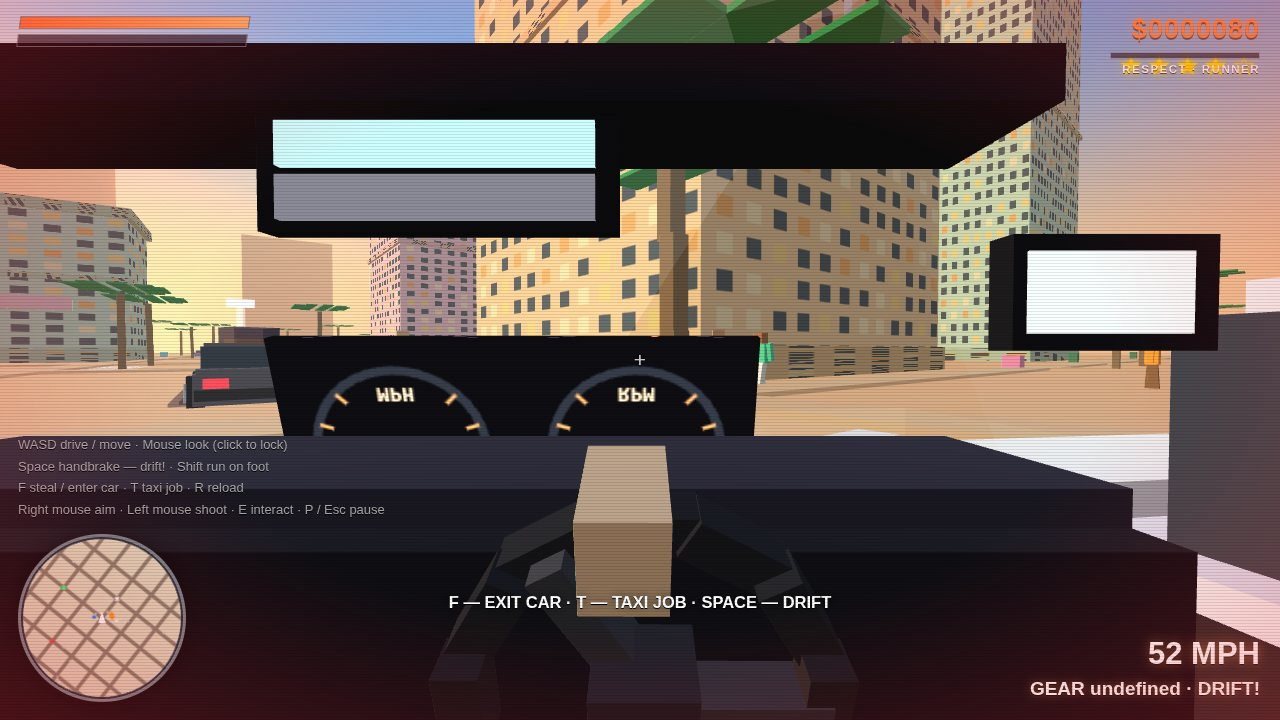
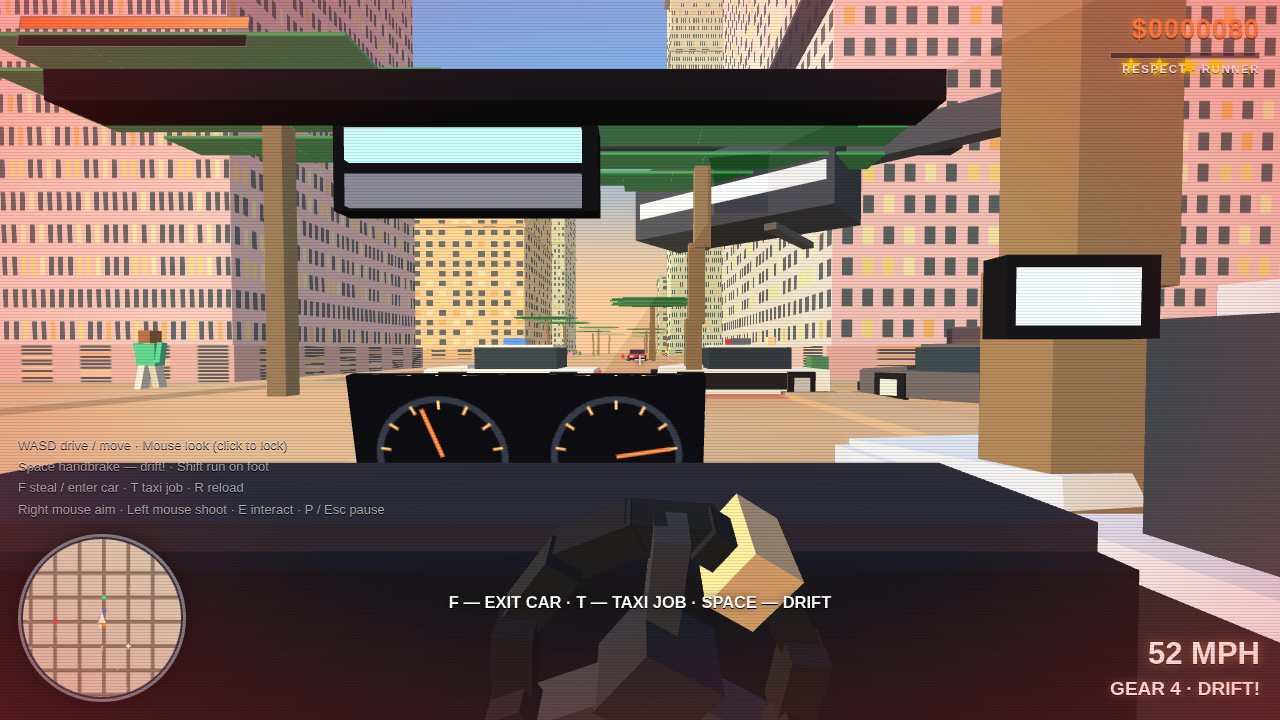
Fix the three screenshot defects reported from b562623 plus staging bugs found by eye: (1) play scene could render 180-degree flipped - setupShot wrote 84 (degrees) into the radian fovPunch, whose decay path crosses tan(fov/2)<0 bands; now 78deg in radians and cockpit() clamps fov to [0.9,2.2]. (2) 

diff --git a/game/src/main.js b/game/src/main.js
@@ -229,16 +229,16 @@ function drawInterior(s, car) {
   const fx = Math.sin(car.ry), fz = Math.cos(car.ry);
   const rx = Math.cos(car.ry), rz = -Math.sin(car.ry);
   const at = (f, r, y) => [car.x + fx * f + rx * r, y, car.z + fz * f + rz * r];
-  let q = at(1.02, 0, 0.80);
-  R.box(q[0], q[1], q[2], car.ry, 2.05, 0.34, 0.5, [0.09, 0.09, 0.12]);
-  q = at(1.06, 0, 0.99);
-  R.box(q[0], q[1], q[2], car.ry, 2.05, 0.07, 0.42, [0.16, 0.15, 0.2]);
+  let q = at(1.02, 0, 0.78);
+  R.box(q[0], q[1], q[2], car.ry, 2.05, 0.26, 0.42, [0.09, 0.09, 0.12]);
+  q = at(1.06, 0, 0.93);
+  R.box(q[0], q[1], q[2], car.ry, 2.05, 0.05, 0.38, [0.16, 0.15, 0.2]);
   // live instrument cluster (canvas texture, needles track speed/rpm)
-  q = at(1.40, -0.05, 0.98);
-  R.panel(q[0], q[1], q[2], car.ry, 1.15, 0.55, 'dash', { pitch: -0.25 });
-  // steering wheel: slim ring (r=0.19) + three spokes, rotation = steer x 3.2
+  q = at(1.36, -0.05, 0.95);
+  R.panel(q[0], q[1], q[2], car.ry, 0.88, 0.42, 'dash', { pitch: -0.18 });
+  // steering wheel: slim ring (r=0.175) + three spokes, rotation = steer x 3.2
   const wheelRoll = -(car.phys ? car.phys.steerAngle : 0) * 3.2;
-  const wc = at(0.70, -0.35, 0.84);
+  const wc = at(0.74, -0.35, 0.82);
   const wob = (dx, dy) => {
     const cr = Math.cos(wheelRoll), sr = Math.sin(wheelRoll);
     const lx = dx * cr - dy * sr, ly = dx * sr + dy * cr;
@@ -249,7 +249,7 @@ function drawInterior(s, car) {
   // ring: 12 short segments approximating a circle
   for (let i = 0; i < 12; i++) {
     const a = i / 12 * Math.PI * 2;
-    b = wob(Math.cos(a) * 0.19, Math.sin(a) * 0.19);
+    b = wob(Math.cos(a) * 0.175, Math.sin(a) * 0.175);
     R.box(b[0], b[1], b[2], car.ry, 0.115, 0.048, 0.05, rimC, { pitch: -0.32, roll: wheelRoll + a + Math.PI / 2 });
   }
   // three spokes: down, lower-left, lower-right (classic 3-spoke layout)
@@ -259,13 +259,13 @@ function drawInterior(s, car) {
   }
   b = wob(0, 0); R.box(b[0], b[1], b[2], car.ry, 0.11, 0.11, 0.09, [0.16, 0.16, 0.19], { pitch: -0.32, roll: wheelRoll });
   // driver hands gripping the rim at 9 and 3
-  b = wob(-0.19, 0.02); R.box(b[0], b[1], b[2], car.ry, 0.11, 0.09, 0.14, [0.92, 0.76, 0.6], { pitch: -0.32, roll: wheelRoll });
-  b = wob(0.19, 0.02); R.box(b[0], b[1], b[2], car.ry, 0.11, 0.09, 0.14, [0.92, 0.76, 0.6], { pitch: -0.32, roll: wheelRoll });
+  b = wob(-0.175, -0.01); R.box(b[0], b[1], b[2], car.ry, 0.09, 0.07, 0.11, [0.85, 0.68, 0.52], { pitch: -0.32, roll: wheelRoll });
+  b = wob(0.175, -0.01); R.box(b[0], b[1], b[2], car.ry, 0.09, 0.07, 0.11, [0.85, 0.68, 0.52], { pitch: -0.32, roll: wheelRoll });
   for (const sd of [-1, 1]) {
-    q = at(0.92, sd * 1.04, 1.3);
-    R.box(q[0], q[1], q[2], car.ry, 0.3, 0.17, 0.05, [0.08, 0.08, 0.1]);
-    q = at(0.9, sd * 1.03, 1.3);
-    R.box(q[0], q[1], q[2], car.ry, 0.24, 0.12, 0.02, [0.75, 0.85, 0.95], { emissive: true });
+    q = at(0.92, sd * 1.02, 1.3);
+    R.box(q[0], q[1], q[2], car.ry, 0.24, 0.13, 0.05, [0.08, 0.08, 0.1]);
+    q = at(0.9, sd * 1.01, 1.3);
+    R.box(q[0], q[1], q[2], car.ry, 0.19, 0.09, 0.02, [0.75, 0.85, 0.95], { emissive: true });
   }
   // centre console + gear knob between the seats
   q = at(0.35, 0.18, 0.42);
@@ -273,26 +273,26 @@ function drawInterior(s, car) {
   q = at(0.55, 0.18, 0.6);
   R.box(q[0], q[1], q[2], car.ry, 0.07, 0.16, 0.07, [0.2, 0.2, 0.24]);
   // rear-view mirror with a simple two-tone reflection (sky over road)
-  q = at(1.05, 0, 1.52);
-  R.box(q[0], q[1], q[2], car.ry, 0.62, 0.2, 0.05, [0.07, 0.07, 0.09]);
-  q = at(1.02, 0, 1.565);
-  R.box(q[0], q[1], q[2], car.ry, 0.54, 0.075, 0.02, [0.62, 0.78, 0.94], { emissive: true });
-  q = at(1.02, 0, 1.475);
-  R.box(q[0], q[1], q[2], car.ry, 0.54, 0.075, 0.02, [0.42, 0.42, 0.46], { emissive: true });
-  q = at(1.12, 0, 1.66);
-  R.box(q[0], q[1], q[2], car.ry, 2.05, 0.09, 0.3, [0.08, 0.08, 0.11]);
+  q = at(1.08, 0, 1.56);
+  R.box(q[0], q[1], q[2], car.ry, 0.5, 0.16, 0.05, [0.07, 0.07, 0.09]);
+  q = at(1.05, 0, 1.60);
+  R.box(q[0], q[1], q[2], car.ry, 0.44, 0.06, 0.02, [0.62, 0.78, 0.94], { emissive: true });
+  q = at(1.05, 0, 1.515);
+  R.box(q[0], q[1], q[2], car.ry, 0.44, 0.06, 0.02, [0.42, 0.42, 0.46], { emissive: true });
+  q = at(1.30, 0, 1.82);
+  R.box(q[0], q[1], q[2], car.ry, 2.05, 0.07, 0.12, [0.08, 0.08, 0.11]);
 }
 function drawGunView(s, eye, viewYaw, viewPitch, lowered = false) {
   const d = viewDir(viewYaw, viewPitch);
-  const rx = Math.cos(viewYaw), rz = -Math.sin(viewYaw);
+  const rx = -Math.cos(viewYaw), rz = Math.sin(viewYaw); // true screen-right for this view basis
   const aim = s.player.aim && !lowered;
   const kick = (s.recoil || 0) * 0.03;
-  const rOff = aim ? 0 : 0.23, dOff = (aim ? 0.42 : 0.5) - kick, yOff = lowered ? -0.5 : (aim ? -0.145 : -0.27) + kick * 0.6;
+  const rOff = aim ? 0 : 0.23, dOff = (aim ? 0.42 : 0.58) - kick, yOff = lowered ? -0.5 : (aim ? -0.145 : -0.30) + kick * 0.6;
   const gx = eye[0] + d[0] * dOff + rx * rOff, gy = eye[1] + d[1] * dOff + yOff, gz = eye[2] + d[2] * dOff + rz * rOff;
   R.box(gx, gy, gz, viewYaw, 0.09, 0.15, 0.46, [0.1, 0.1, 0.12], { pitch: viewPitch });
   R.box(gx + d[0] * 0.3, gy + d[1] * 0.3 + 0.02, gz + d[2] * 0.3, viewYaw, 0.05, 0.05, 0.26, [0.16, 0.16, 0.18], { pitch: viewPitch });
   R.box(gx - d[0] * 0.08 + rx * 0.02, gy - 0.13, gz - d[2] * 0.08 + rz * 0.02, viewYaw, 0.15, 0.11, 0.2, [0.92, 0.76, 0.6], { pitch: viewPitch });
-  if (!aim) R.box(gx - d[0] * 0.22 + rx * 0.1, gy - 0.3, gz - d[2] * 0.22 + rz * 0.1, viewYaw, 0.13, 0.13, 0.42, [0.97, 0.87, 0.72], { pitch: viewPitch + 0.5 });
+  if (!aim) R.box(gx - d[0] * 0.22 + rx * 0.1, gy - 0.3, gz - d[2] * 0.22 + rz * 0.1, viewYaw, 0.12, 0.12, 0.34, [0.97, 0.87, 0.72], { pitch: viewPitch + 0.5 });
 }
 function drawPerson(s, x, z, ry, color, o = {}) {
   // 7 parts: shadow, 2 legs (pants), torso (shirt), 2 arms (sleeves, swinging
@@ -320,17 +320,18 @@ function drawPerson(s, x, z, ry, color, o = {}) {
 function drawHeli(s, t) {
   const h = s.heli, p = s.player;
   const x = h.x, z = h.z, y = h.h || 28;
-  const ry = Math.atan2(p.x - x, p.z - z);
-  R.box(x, y, z, ry, 2.2, 1.9, 5.2, [0.92, 0.92, 0.95]);
-  R.box(x, y + 0.2, z, ry, 1.9, 1.0, 1.8, [0.15, 0.2, 0.3]);
+  const ry = h.ry != null ? h.ry : Math.atan2(p.x - x, p.z - z); // staged shots may pin a broadside aspect
+  R.box(x, y, z, ry, 2.6, 2.2, 6.4, [0.18, 0.2, 0.27]);
+  R.box(x, y - 0.2, z, ry, 2.65, 0.5, 6.0, [0.92, 0.92, 0.95]);
+  R.box(x, y + 0.25, z, ry, 2.2, 1.1, 2.0, [0.65, 0.8, 0.92], { emissive: true });
   const bx = Math.sin(ry), bz = Math.cos(ry);
-  R.box(x - bx * 4.6, y + 0.5, z - bz * 4.6, ry, 0.5, 0.7, 4.4, [0.85, 0.85, 0.88]);
-  R.box(x - bx * 6.7, y + 0.9, z - bz * 6.7, ry, 0.18, 1.5, 1.1, [0.85, 0.85, 0.88]);
+  R.box(x - bx * 5.4, y + 0.6, z - bz * 5.4, ry, 0.55, 0.8, 5.0, [0.22, 0.24, 0.31]);
+  R.box(x - bx * 7.8, y + 1.1, z - bz * 7.8, ry, 0.2, 1.7, 1.2, [0.22, 0.24, 0.31]);
   const spin = t * 42;
-  R.box(x, y + 1.25, z, spin, 11.5, 0.08, 0.5, [0.2, 0.2, 0.24]);
-  R.box(x, y + 1.25, z, spin + Math.PI / 2, 11.5, 0.08, 0.5, [0.2, 0.2, 0.24], { alpha: 0.7 });
-  R.box(x - bx * 6.7, y + 0.9, z - bz * 6.7, ry, 1.6, 0.12, 0.3, [0.2, 0.2, 0.24], { roll: t * 55 });
-  R.box(x - bx * 1.4, y - 1.25, z - bz * 1.4, ry, 2.6, 0.16, 0.3, [0.3, 0.3, 0.34]);
+  R.box(x, y + 1.5, z, spin, 13.5, 0.09, 0.55, [0.12, 0.12, 0.16]);
+  R.box(x, y + 1.5, z, spin + Math.PI / 2, 13.5, 0.09, 0.55, [0.12, 0.12, 0.16], { alpha: 0.7 });
+  R.box(x - bx * 7.8, y + 1.1, z - bz * 7.8, ry, 1.8, 0.13, 0.32, [0.15, 0.15, 0.19], { roll: t * 55 });
+  R.box(x - bx * 1.6, y - 1.45, z - bz * 1.6, ry, 3.0, 0.18, 0.34, [0.3, 0.3, 0.34]);
   // spotlight: beam from belly to the player + pool on the ground
   const dx = p.x - x, dz = p.z - z;
   const dist = Math.hypot(dx, dz, y);
@@ -497,7 +498,7 @@ function setupShot(kind) {
   const fx0 = setupShotScene(s, kind);
   const car = s.player.inCar;
   void car;
-  if (kind === 'play') rig.fovPunch = 84;
+  if (kind === 'play') rig.fovPunch = 78 * Math.PI / 180; // RADIANS (was 84 raw — tan() went negative mid-lerp and flipped frames)
   lookPitch = kind === 'start' ? -0.03 : 0.02;
   for (const sk of fx0.skids) skids.push(sk);
   for (const pf of fx0.puffs) spawnP(pf.x, pf.y, pf.z, pf.vx, pf.vy, pf.vz, pf.life, pf.size, pf.color);
@@ -515,9 +516,10 @@ function bootPhysics() {
     if (c === S.player.inCar) {
       c.phys = new PhysClass();
       c.phys.u = shotMode === 'play' ? 38.5 : shotMode === 'chase' ? 23.2 : 0;
-      c.phys.steerAngle = shotMode === 'play' ? 0.10 : shotMode === 'chase' ? 0.49 : 0;
+      c.phys.steerAngle = shotMode === 'play' ? 0.10 : shotMode === 'chase' ? 0.30 : 0;
       if (shotMode === 'chase') { c.phys.v = -15.7; c.phys.omega = 0.4; }
       c.speed = c.phys.u; c.rpm = shotMode === 'play' ? 0.92 : 0.8;
+      c.gear = shotMode === 'play' ? 5 : 4;
       c.slip = shotMode === 'chase' ? 14 : 0;
       c.isDrifting = shotMode === 'chase';
     }

diff --git a/game/src/game/shots.js b/game/src/game/shots.js
@@ -57,7 +57,11 @@ export function setupShotScene(s, kind) {
   }
   if (kind === 'chase') {
     const car = s.cars.find(c => c.kind === 'parked');
-    car.kind = 'player'; car.x = BLOCK * 0.5; car.z = BLOCK * 0.5; car.ry = 0.9;
+    // Snap onto a straight vertical road, facing +Z down its length, so the
+    // roadblock / heli / wreck staged ahead are actually in frame.
+    const centers = roadCenters();
+    const roadC = centers.reduce((a, b) => Math.abs(b - BLOCK * 0.5) < Math.abs(a - BLOCK * 0.5) ? b : a, centers[0]);
+    car.kind = 'player'; car.x = roadC - 3.6; car.z = -30; car.ry = 0;
     p.inCar = car; p.x = car.x; p.z = car.z;
     car.rpm = 0.8; s.wanted = 4; s.trauma = 0.45;
     const fx = Math.sin(car.ry), fz = Math.cos(car.ry), rx = Math.cos(car.ry), rz = -Math.sin(car.ry);
@@ -65,31 +69,64 @@ export function setupShotScene(s, kind) {
     s.cops.push(mkCop(car.x - rx * 2.6 + fx * 0.6, car.z - rz * 2.6 + fz * 0.6, car.ry + 0.15));
     s.cops.push(mkCop(car.x - fx * 14 + rx * 5, car.z - fz * 14 + rz * 5, car.ry));
     // 4-star roadblock: two cruisers side by side across the road ahead.
-    for (const sd of [-2.3, 2.3]) {
-      const rb = mkCop(car.x + fx * 19 + rx * sd, car.z + fz * 19 + rz * sd, car.ry + Math.PI / 2);
+    for (const sd of [-3.0, 3.0]) {
+      const rb = mkCop(car.x + fx * 13 + rx * sd, car.z + fz * 13 + rz * sd, car.ry + Math.PI / 2);
       rb.roadblock = true; rb.speed = 0;
       s.cops.push(rb);
     }
     // Air unit overhead, spotlight locked on the player car (staged for frame).
-    s.heli = { a: 0, h: 17, x: car.x + fx * 26 - rx * 10, z: car.z + fz * 26 - rz * 10 };
+    s.heli = { a: 0, h: 6, ry: car.ry + 0.9, x: car.x + fx * 15 - rx * 3.5, z: car.z + fz * 15 - rz * 3.5 };
     // A burning wreck by the roadside for the explosion chain money-shot.
-    const wreck = placeTrafficAt(s, 3, car.x + fx * 12 + rx * 9, car.z + fz * 12 + rz * 9, car.ry + 0.7, [0.3, 0.3, 0.34]);
+    const wreck = placeTrafficAt(s, 3, car.x + fx * 11 - rx * 8, car.z + fz * 11 - rz * 8, car.ry + 0.7, [0.3, 0.3, 0.34]);
     wreck.burning = 1.4; wreck.hp = 0;
     // Bystander traffic + fleeing peds at the intersection corners.
     placeTrafficAt(s, 0, car.x + fx * 26 - rx * 8, car.z + fz * 26 - rz * 8, car.ry + Math.PI / 2, [0.98, 0.78, 0.15]);
     placeTrafficAt(s, 1, car.x - fx * 10 + rx * 10, car.z - fz * 10 + rz * 10, car.ry, [0.4, 0.7, 0.4]);
-    const road = BLOCK * 0.5;
-    placePedAt(s, 0, road - 10, road - 12, false, road, -10);
-    placePedAt(s, 1, road + 10.5, road + 14, false, road, 10.5);
-    placePedAt(s, 2, road + 2, road + 22, true, road, 12);
-    placePedAt(s, 3, road + 16, road + 4, true, road, -13);
+    const road = roadC;
+    placePedAt(s, 0, road - 10, -42, false, road, -10);
+    placePedAt(s, 1, road + 10.5, -16, false, road, 10.5);
+    placePedAt(s, 2, road + 2, -8, true, road, 12);
+    placePedAt(s, 3, road + 16, -26, true, road, -13);
     for (let i = 0; i < 26; i++) out.puffs.push({ x: car.x - fx * 2 + rng.range(-1, 1), y: 0.5, z: car.z - fz * 2 + rng.range(-1, 1), vx: -fx * 2, vy: rng.range(1, 2), vz: -fz * 2, life: 1.6, size: 0.9, color: [0.85, 0.85, 0.88] });
     for (let i = 0; i < 10; i++) out.puffs.push({ x: car.x - rx * 2.2, y: 0.8, z: car.z - rz * 2.2, vx: -rx * 3, vy: 1.5, vz: -rz * 3, life: 0.5, size: 0.3, color: [1, 0.75, 0.25] });
     out.skids = [{ x: car.x - fx * 6, z: car.z - fz * 6, ry: car.ry, len: 9 }, { x: car.x - fx * 10, z: car.z - fz * 10, ry: car.ry + 0.2, len: 8 }];
   }
   if (kind === 'end') {
     const z = s.city.zones.spray;
-    p.x = z.x - 10; p.z = z.z + 12;
+    // Pick a vantage with a clear sightline to the spray: no palm near the
+    // camera or across the first 8 m of the view ray, no car on top of us.
+    const candidates = [[-10, 12], [-4, 14], [-14, 6], [-6, 8], [-12, 16], [-2, 10], [-16, 12]];
+    let placed = false;
+    for (const [ox, oz] of candidates) {
+      const px = z.x + ox, pz = z.z + oz;
+      const fx = Math.sin(Math.atan2(z.x - px, z.z - pz)), fz = Math.cos(Math.atan2(z.x - px, z.z - pz));
+      let clear = true;
+      for (const pm of s.city.palms) {
+        const d0 = Math.hypot(pm.x - px, pm.z - pz);
+        if (d0 < 2.5) { clear = false; break; }
+        for (let t = 1; t < 8; t += 1.5) {
+          if (Math.hypot(pm.x - (px + fx * t), pm.z - (pz + fz * t)) < 1.8) { clear = false; break; }
+        }
+        if (!clear) break;
+      }
+      if (clear) for (const c of s.cars) if (Math.hypot(c.x - px, c.z - pz) < 3) { clear = false; break; }
+      if (clear) {
+        // Buildings too: not standing inside one, none blocking the view ray.
+        const aabbD = (bx, bz, b) => {
+          const dx = Math.max(Math.abs(bx - b.x) - b.w / 2, 0);
+          const dz = Math.max(Math.abs(bz - b.z) - b.d / 2, 0);
+          return Math.hypot(dx, dz);
+        };
+        for (const b of s.city.buildings) {
+          if (aabbD(px, pz, b) < 2.5) { clear = false; break; }
+          let blocked = false;
+          for (let t = 1.5; t < 11; t += 1.5) if (aabbD(px + fx * t, pz + fz * t, b) < 1.2) { blocked = true; break; }
+          if (blocked) { clear = false; break; }
+        }
+      }
+      if (clear) { p.x = px; p.z = pz; placed = true; break; }
+    }
+    if (!placed) { p.x = z.x - 10; p.z = z.z + 12; }
     s.camYaw = Math.atan2(z.x - p.x, z.z - p.z); p.ry = s.camYaw;
     s.hasGun = true;
     const gold = s.cars.find(c => c.kind === 'parked');
@@ -104,7 +141,8 @@ export function setupShotScene(s, kind) {
     s.mission = { name: 'THE RIVAL DEAL', desc: 'REWARD: $20,000', target: null };
     s.cash = 21450; s.wanted = 0;
     out.skids = [{ x: z.x - 6, z: z.z + 2, ry: Math.PI / 2, len: 10 }, { x: z.x - 11, z: z.z + 2.6, ry: Math.PI / 2, len: 8 }];
-    for (let i = 0; i < 8; i++) out.puffs.push({ x: p.x + Math.sin(s.camYaw) * 0.6, y: 1.5 + i * 0.1, z: p.z + Math.cos(s.camYaw) * 0.6, vx: 0.2, vy: 0.7, vz: 0.1, life: 1.4, size: 0.22, color: [0.8, 0.8, 0.82] });
+    // Celebration smoke rises off the gold car, NOT in the camera's face.
+    for (let i = 0; i < 8; i++) out.puffs.push({ x: z.x + (i % 3 - 1) * 0.8, y: 1.2 + i * 0.35, z: z.z + (i % 2) * 1.2 - 0.6, vx: 0.2, vy: 0.7, vz: 0.1, life: 1.4, size: 0.3, color: [0.8, 0.8, 0.82] });
   }
   return out;
 }

diff --git a/game/src/gl/textures.js b/game/src/gl/textures.js
@@ -63,6 +63,7 @@ export function makeTextures(gl) {
     const c = document.createElement('canvas'); c.width = 256; c.height = 128;
     const g = c.getContext('2d');
     g.fillStyle = '#0a0a0e'; g.fillRect(0, 0, 256, 128);
+    g.save(); g.translate(0, 128); g.scale(1, -1); // texture V is flipped in upload (no FLIP_Y): pre-flip vertically
     const gauge = (cx, label) => {
       g.strokeStyle = '#2a2f3a'; g.lineWidth = 5;
       g.beginPath(); g.arc(cx, 64, 46, 0, Math.PI * 2); g.stroke();
@@ -77,7 +78,7 @@ export function makeTextures(gl) {
       g.fillStyle = '#ffe1b8'; g.font = 'bold 11px monospace'; g.textAlign = 'center';
       g.fillText(label, cx, 100);
     };
-    gauge(64, 'MPH'); gauge(192, 'RPM');
+    gauge(64, 'MPH'); gauge(192, 'RPM'); g.restore();
     out.dash = canvasTex(gl, c, false);
   }
   // Soft radial particle sprite.
@@ -100,6 +101,7 @@ export function drawDashTexture(gl, tex, mph, rpm) {
   })());
   const g = c.getContext('2d');
   g.fillStyle = '#0a0a0e'; g.fillRect(0, 0, 256, 128);
+  g.save(); g.translate(0, 128); g.scale(1, -1); // texture V is flipped in upload (no FLIP_Y): pre-flip vertically
   const gauge = (cx, label, frac) => {
     g.strokeStyle = '#2a2f3a'; g.lineWidth = 5;
     g.beginPath(); g.arc(cx, 64, 46, 0, Math.PI * 2); g.stroke();
@@ -117,7 +119,7 @@ export function drawDashTexture(gl, tex, mph, rpm) {
     g.fillStyle = '#ffe1b8'; g.font = 'bold 11px monospace'; g.textAlign = 'center';
     g.fillText(label, cx, 100);
   };
-  gauge(64, 'MPH', mph / 120); gauge(192, 'RPM', rpm);
+  gauge(64, 'MPH', mph / 120); gauge(192, 'RPM', rpm); g.restore();
   gl.bindTexture(gl.TEXTURE_2D, tex);
   gl.texImage2D(gl.TEXTURE_2D, 0, gl.RGBA, gl.RGBA, gl.UNSIGNED_BYTE, c);
 }

diff --git a/game/src/game/hud.js b/game/src/game/hud.js
@@ -57,7 +57,7 @@ export function updateHUD(s, ui, nearCarFn) {
   ui.stars.style.color = s.wanted ? '#FFD700' : '#2A2A38';
   ui.stars.style.textShadow = s.wanted ? '0 0 10px rgba(255,215,0,.9)' : 'none';
   const car = s.player.inCar;
-  ui.weapon.textContent = car ? `GEAR ${car.gear === 0 ? 'R' : car.gear} · ${car.isDrifting ? 'DRIFT!' : ''}${s.radio ? ` · RADIO ${s.radio === 1 ? 'VICE FM' : 'SOLMAR'}` : ''}`
+  ui.weapon.textContent = car ? `GEAR ${car.gear === 0 ? 'R' : (car.gear == null ? 'N' : car.gear)} · ${car.isDrifting ? 'DRIFT!' : ''}${s.radio ? ` · RADIO ${s.radio === 1 ? 'VICE FM' : 'SOLMAR'}` : ''}`
     : (s.hasGun ? (s.weapon === 'smg' && s.hasSmg ? `SMG ${s.ammoSmg} / ${s.reserve}` : `PISTOL ${s.ammo} / ${s.reserve}`) + (s.reloadT > 0 ? ' · RELOADING' : '') : 'UNARMED');
   if (ui.respectfill) {
     const r = s.respect || 0;

diff --git a/game/src/game/camera.js b/game/src/game/camera.js
@@ -37,6 +37,7 @@ export class CameraRig {
     const targetFov = 75 * Math.PI / 180 + clamp(aLong * 0.35, -5, 12) * Math.PI / 180;
     this.fovPunch += (targetFov - this.fovPunch) * Math.min(1, dt * 6);
     if (!this.fovPunch) this.fovPunch = targetFov;
+    this.fovPunch = clamp(this.fovPunch, 0.9, 2.2); // never let tan(fov/2) go negative
     const yaw = car.ry + lookYaw;
     const pitch = lookPitch + this.springP * 0.7;
     const d = viewDir(yaw, pitch);

diff --git a/game/src/game/player.js b/game/src/game/player.js
@@ -35,6 +35,7 @@ export function enterExitCar(s) {
   }
   if (best) {
     best.hpMax = s.armorUp ? 150 : 100; // garage armour upgrade raises the cap
+    if (best.gear == null) best.gear = 1;
     if (!best.phys) best.phys = new VehiclePhysics();
     best.phys.u = best.speed || 0; best.phys.v = 0; best.phys.omega = 0;
     p.inCar = best;
